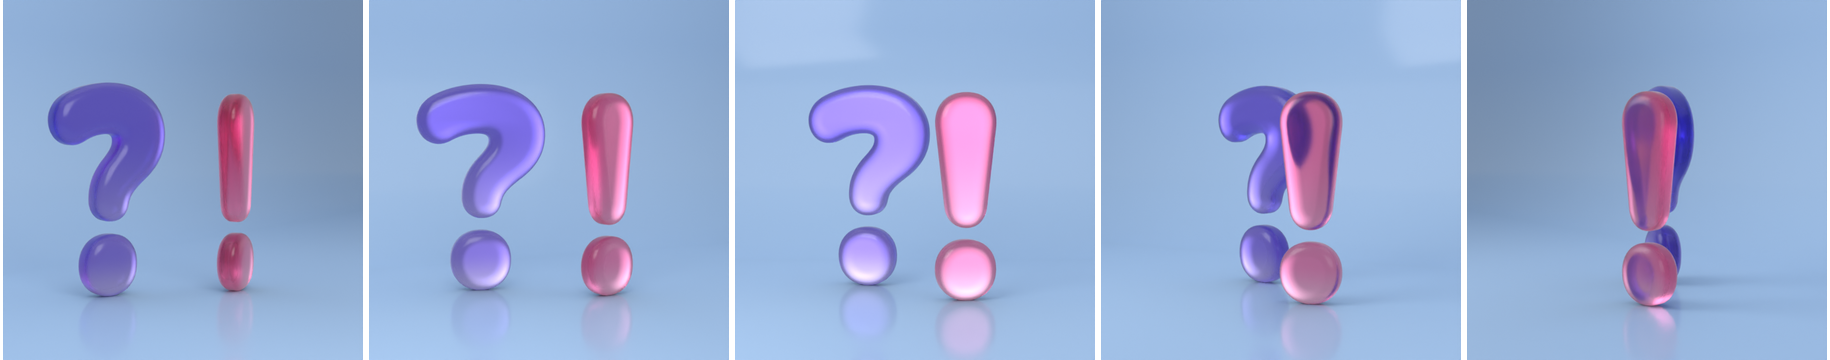
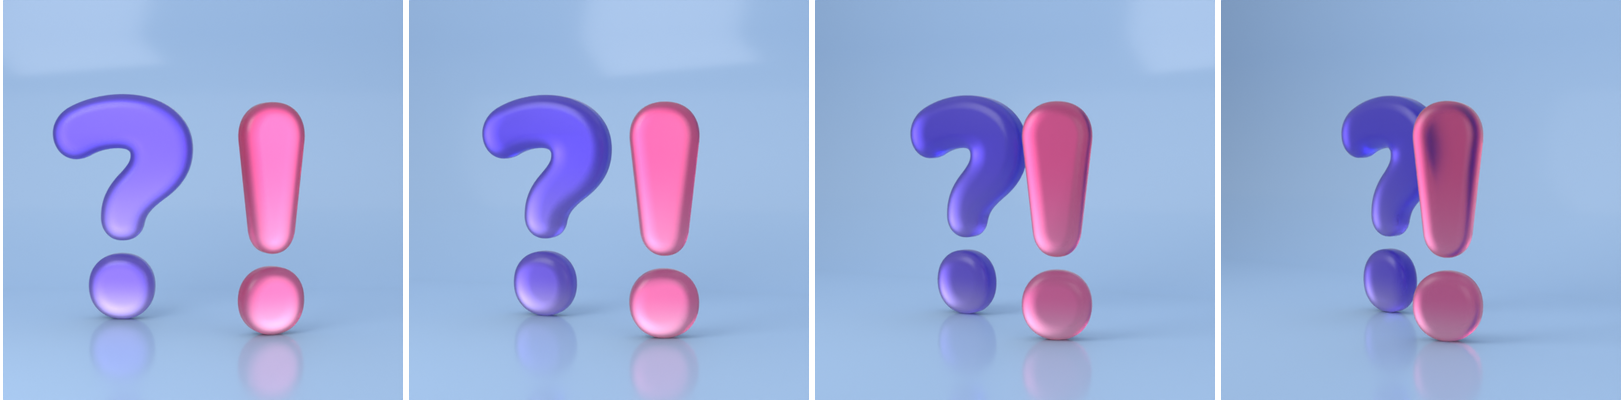
Signos planos: más color, esmerilado, brillo suave y toma a 28°
- Más color en el vidrio (absorción y superficie menos pastel)
- Esmerilado más marcado y granito más visible
- Brillo de los bordes a la mitad: menos plástico
- Toma principal a 28° de costado (ANGULO_CAMARA) con los signos
  acomodados para que se crucen sin taparse

Claude-Session: https://claude.ai/code/session_0121m7YK9CXNaJS4Mb2Yre8x

diff --git a/signos-vidrio/signos_vidrio.py b/signos-vidrio/signos_vidrio.py
@@ -30,11 +30,12 @@ COLOR_FONDO = "#B4D2F2"   # celeste de la cinta de vidrio
 COLOR_FONDO_LUZ = "#EAF2FC"
 
 ESMERILADO = 0.55         # 0 = vidrio transparente, 0.6 = muy lechoso
-ARENADO = 0.32            # cuánto se nota el granito del arenado en la superficie
-DENSIDAD_COLOR = 2.4      # cuánto color toma el vidrio según su espesor (más = más intenso)
+ARENADO = 0.5             # cuánto se nota el granito del arenado en la superficie
+DENSIDAD_COLOR = 3.6      # cuánto color toma el vidrio según su espesor (más = más intenso)
 GROSOR = 0.36             # radio del punto (lo usa el material del punto)
 FONT_PATH = "fuentes/Nunito-Black.ttf"  # Google Fonts, licencia OFL; al lado del script
 ESPESOR = 0.42            # espesor total de la placa (los signos son planos, extruidos)
+ANGULO_CAMARA = 28        # grados de costado desde el frente (0 = de frente)
 SEPARACION_PUNTO = 0.18   # aire extra entre el cuerpo y el punto
 REDONDEO = 0.16           # radio del redondeo de los cantos: casi una almohadita
 ALTO = 3.0                # alto de los signos
@@ -210,7 +211,7 @@ def material_esmerilado(nombre, color_arriba, color_abajo, z_min, z_max):
     #    más claro en los bordes finos. La superficie queda en un tono pastel.
     pastel = nt.nodes.new("ShaderNodeMix")
     pastel.data_type = "RGBA"
-    pastel.inputs["Factor"].default_value = 0.4
+    pastel.inputs["Factor"].default_value = 0.32
     nt.links.new(rampa.outputs["Color"], next(i for i in pastel.inputs if i.identifier == "A_Color"))
     next(i for i in pastel.inputs if i.identifier == "B_Color").default_value = (1, 1, 1, 1)
     nt.links.new(next(o for o in pastel.outputs if o.identifier == "Result_Color"),
@@ -232,7 +233,7 @@ def material_esmerilado(nombre, color_arriba, color_abajo, z_min, z_max):
     costado = nt.nodes.new("ShaderNodeLayerWeight")
     costado.inputs["Blend"].default_value = 0.45
     segun_angulo = nt.nodes.new("ShaderNodeMapRange")
-    segun_angulo.inputs["To Min"].default_value = 0.3   # 1. de frente casi transparente
+    segun_angulo.inputs["To Min"].default_value = 0.45  # de frente menos esmerilado: se ve a través
     segun_angulo.inputs["To Max"].default_value = 1.15
     nt.links.new(costado.outputs["Facing"], segun_angulo.inputs["Value"])
     rugosidad = nt.nodes.new("ShaderNodeMath")
@@ -257,7 +258,7 @@ def material_esmerilado(nombre, color_arriba, color_abajo, z_min, z_max):
         borde = nt.nodes.new("ShaderNodeLayerWeight")
         borde.inputs["Blend"].default_value = 0.25
         peso = nt.nodes.new("ShaderNodeMapRange")
-        peso.inputs["To Min"].default_value, peso.inputs["To Max"].default_value = 0.0, 0.35
+        peso.inputs["To Min"].default_value, peso.inputs["To Max"].default_value = 0.0, 0.15
         nt.links.new(borde.outputs["Fresnel"], peso.inputs["Value"])
         nt.links.new(peso.outputs["Result"], coat)
     if coat_r:
@@ -351,8 +352,8 @@ def main():
     # el "!" adelante y un poco más chico, cruzado delante del gancho del "?" (no del tallo):
     # así se ve el violeta a través del rosa y los dos pesan parejo
     for armar, colores, pos, giro, escala in (
-        (pregunta, COLOR_PREGUNTA, (-0.62, 0.7, 0), -16, 0.84),
-        (exclamacion, COLOR_EXCLAMACION, (0.62, -0.4, 0), 12, 0.8),
+        (pregunta, COLOR_PREGUNTA, (-0.95, 0.55, 0), -6, 0.84),
+        (exclamacion, COLOR_EXCLAMACION, (0.75, -0.45, 0), 22, 0.8),
     ):
         grupo = bpy.data.objects.new(armar.__name__.capitalize(), None)
         escena.collection.objects.link(grupo)
@@ -380,7 +381,9 @@ def main():
     escena.collection.objects.link(cam)
     # a la altura de los signos, mirando de frente (apenas por encima del centro)
     centro = Vector((0, 0, 1.45))
-    cam.location = centro + Vector((0, -1, 0.06)).normalized() * 12.0
+    # toma principal a 28° de costado: el "!" se cruza delante del "?"
+    a = math.radians(ANGULO_CAMARA)
+    cam.location = centro + Vector((math.sin(a), -math.cos(a), 0.06)).normalized() * 12.0
     cam.rotation_euler = (centro - cam.location).to_track_quat("-Z", "Y").to_euler()
     escena.camera = cam
 
